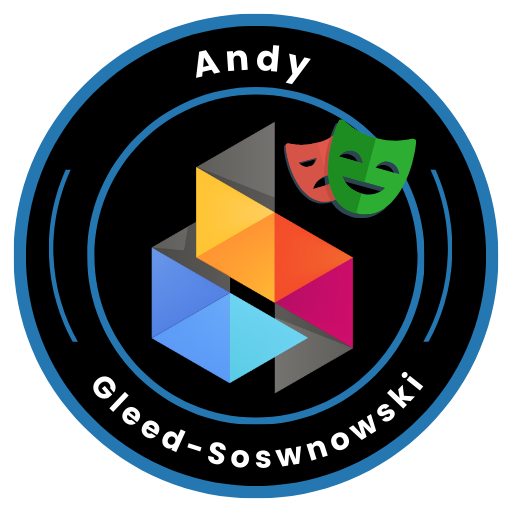
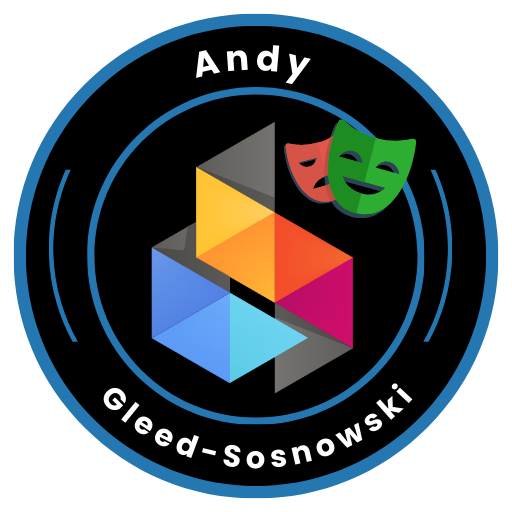
Updated readme and extenstion image

Changed region(s): [[0.1562, 0.7188, 0.8438, 0.9375]]

diff --git a/README.md b/README.md
@@ -25,7 +25,7 @@ This extension has the following settings:
 
 ![VS Code Settings](https://andygleedsosnowski.com/dev/extensions/pwfiletestrunner/ext-settings.png "VS Code Settings")
 
-- `playwright-file-test-runner.configFile`: The Playwright config file to use (e.g., playwright.config.ts). Suggestions provided when editing settings.json.
+- `playwright-file-test-runner.configFile`: The Playwright config file to use (e.g., playwright.config.ts). Suggestions are provided when editing settings.json.
 
 - `playwright-file-test-runner.project`: The Playwright project to run (e.g., chromium, firefox, webkit). Leave empty to run all projects specified in the config for that test file.
 
@@ -36,10 +36,10 @@ This extension has the following settings:
 
 ## Release Notes
 
-### 1.1.0
+### 1.1.1
 
 Added ability to run multiple selected tests from context menu.
 
-### 1.0.9
+### 1.1.0
 
 Initial release of Playwright File Test Runner
